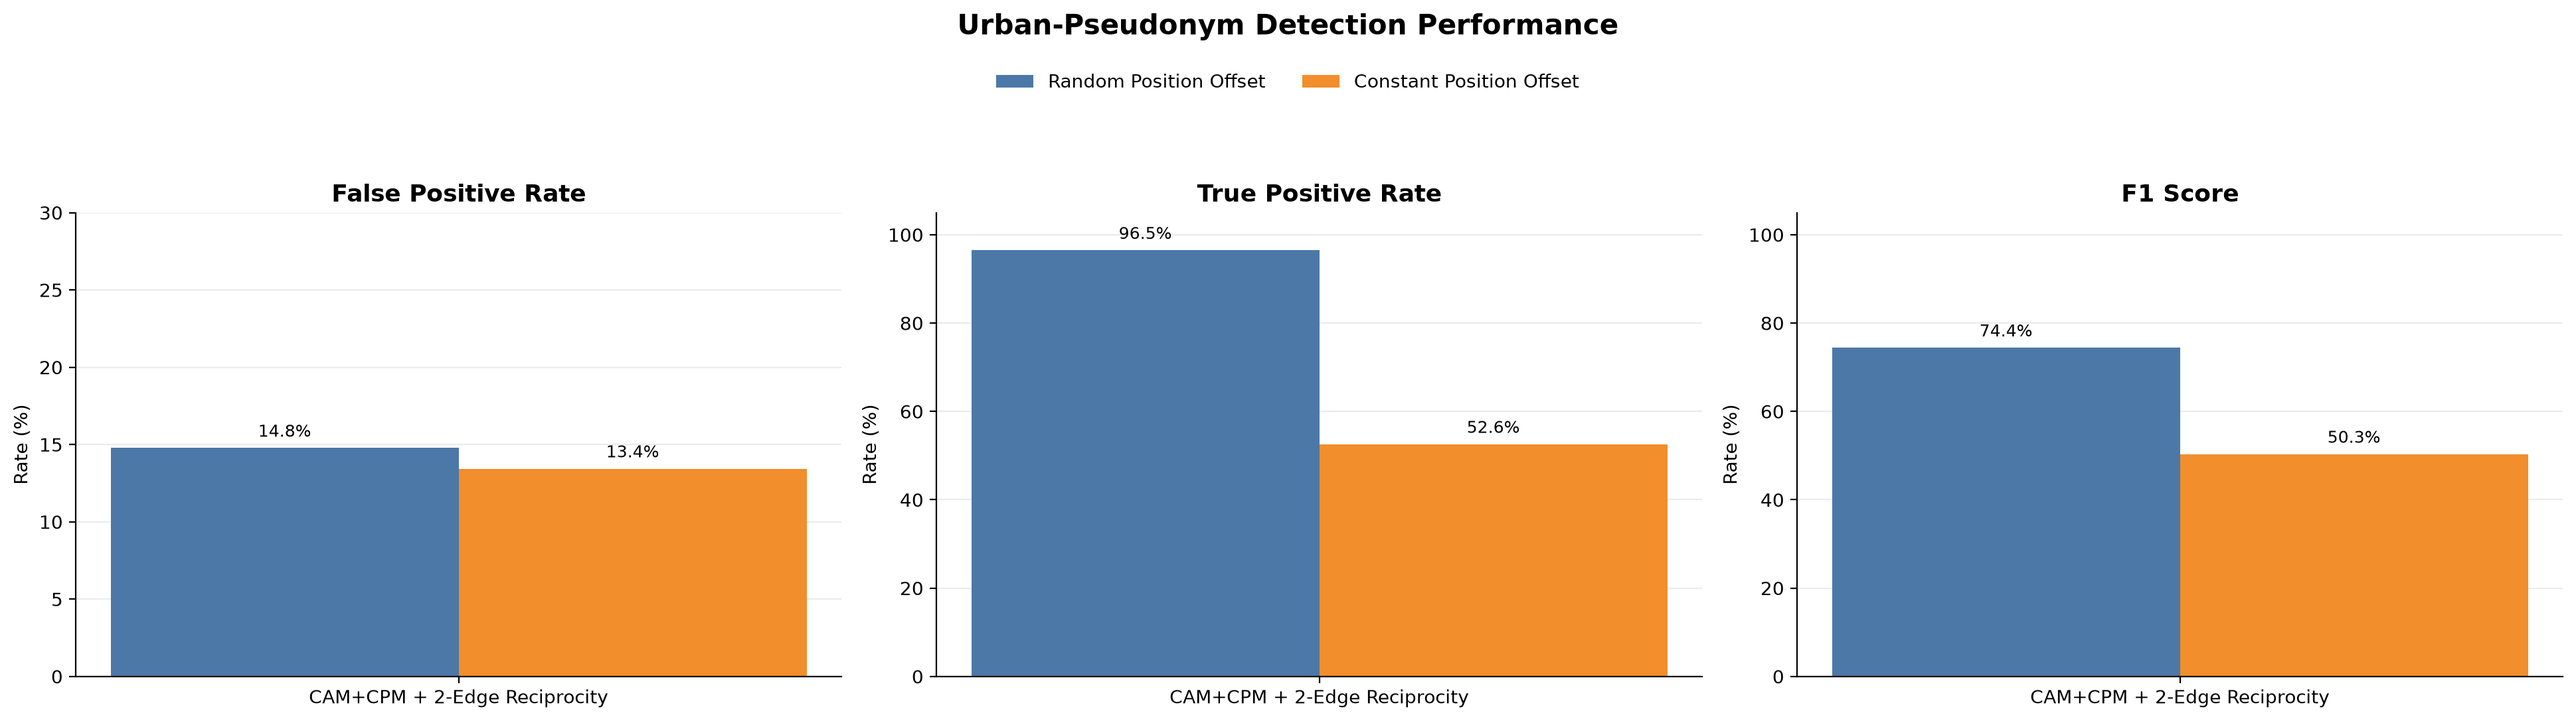
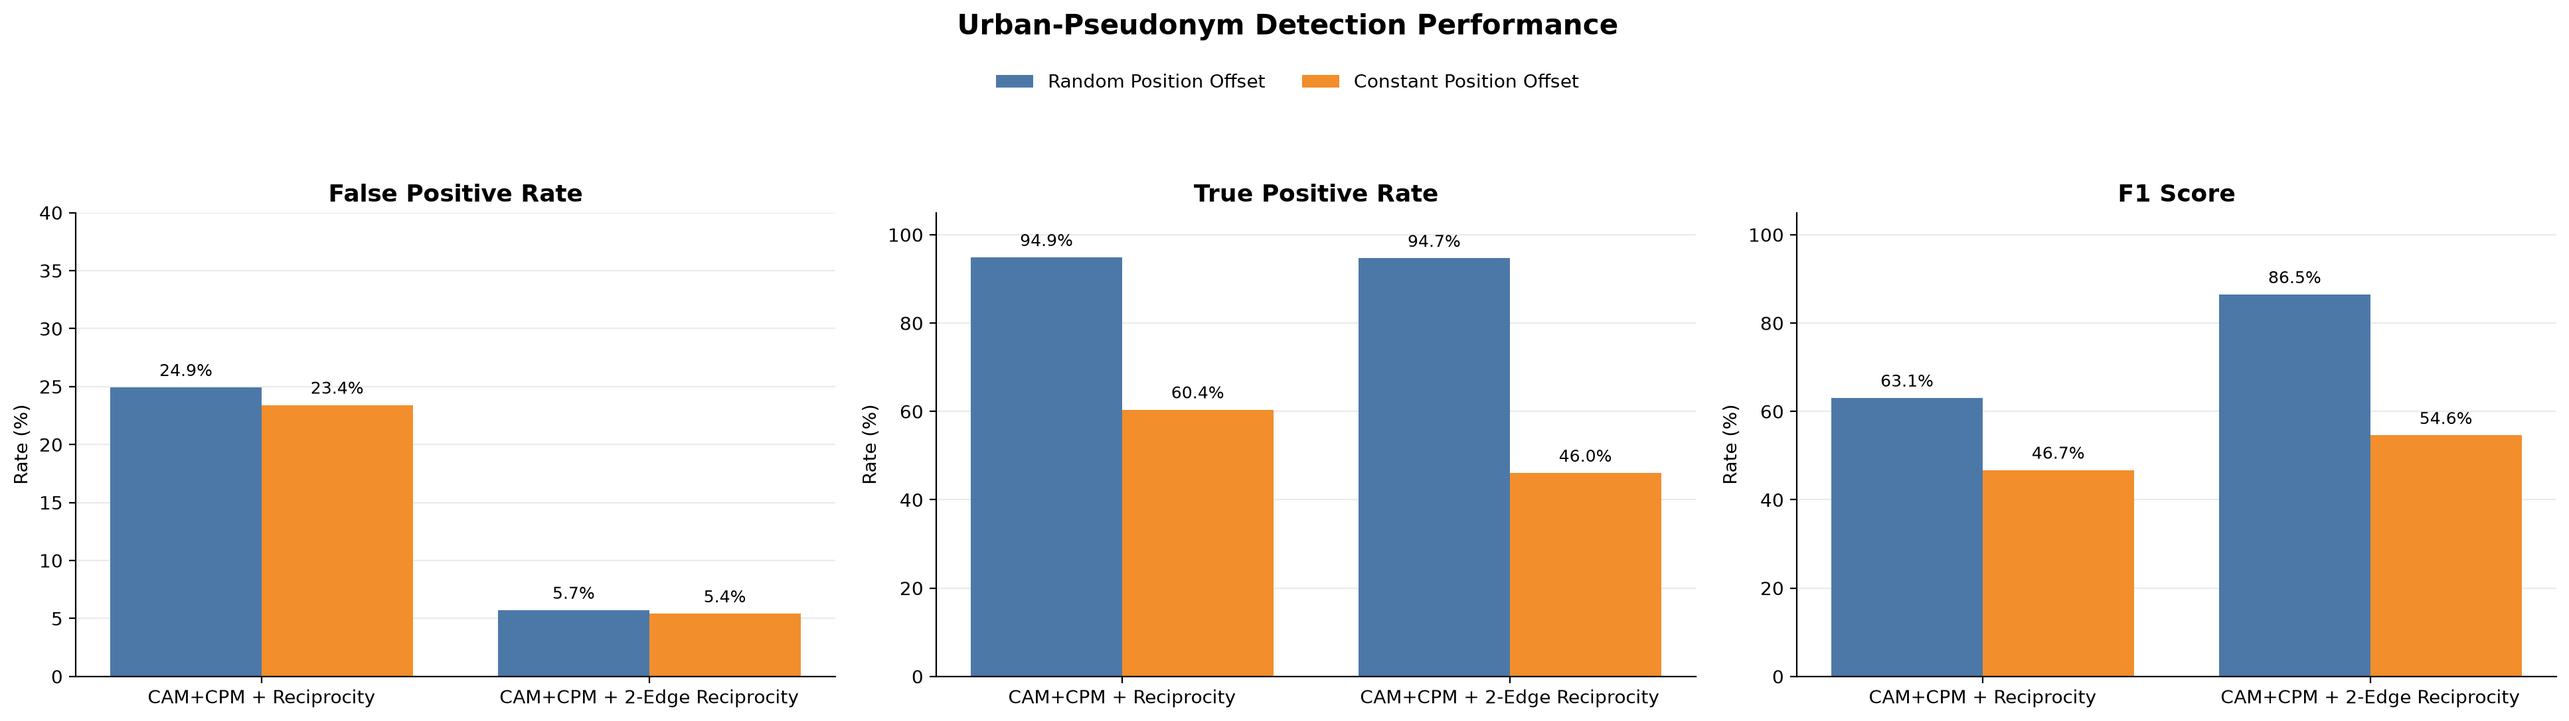
End of Week 7

diff --git a/Generator/MBD_systems/visualization/results-test.py b/Generator/MBD_systems/visualization/results-test.py
@@ -1,9 +1,6 @@
 import argparse
-import json
 import math
 from pathlib import Path
-import subprocess
-import sys
 
 import matplotlib
 
@@ -12,8 +9,49 @@ import matplotlib.pyplot as plt
 import numpy as np
 
 
-REPO_ROOT = Path(__file__).resolve().parents[3]
-MAIN_SCRIPT = REPO_ROOT / "Generator" / "MBD_systems" / "main.py"
+# Fixed detector metrics, stored as rates in the range [0, 1].
+RESULTS = {
+    (2, "randomPositionOffset"): {
+        "false_positive_rate": 0.1418,
+        "true_positive_rate": 0.9598,
+        "f1_score": 0.7680,
+    },
+    (2, "constantPositionOffset"): {
+        "false_positive_rate": 0.1264,
+        "true_positive_rate": 0.1749,
+        "f1_score": 0.2012,
+    },
+    (3, "randomPositionOffset"): {
+        "false_positive_rate": 0.0719,
+        "true_positive_rate": 0.9682,
+        "f1_score": 0.8629,
+    },
+    (3, "constantPositionOffset"): {
+        "false_positive_rate": 0.0570,
+        "true_positive_rate": 0.1965,
+        "f1_score": 0.2707,
+    },
+    (4, "randomPositionOffset"): {
+        "false_positive_rate": 0.3011,
+        "true_positive_rate": 0.9694,
+        "f1_score": 0.6207,
+    },
+    (4, "constantPositionOffset"): {
+        "false_positive_rate": 0.2602,
+        "true_positive_rate": 0.6562,
+        "f1_score": 0.4654,
+    },
+    (5, "randomPositionOffset"): {
+        "false_positive_rate": 0.1206,
+        "true_positive_rate": 0.9686,
+        "f1_score": 0.7969,
+    },
+    (5, "constantPositionOffset"): {
+        "false_positive_rate": 0.0939,
+        "true_positive_rate": 0.5630,
+        "f1_score": 0.5678,
+    },
+}
 
 DETECTORS = {
     2: ("CAM Only", "kalman_cam_only"),
@@ -29,18 +67,18 @@ ATTACK_LABELS = {
 
 
 def parse_args():
-    parser = argparse.ArgumentParser(description="Run and plot Kalman detector comparisons.")
+    parser = argparse.ArgumentParser(description="Plot fixed Kalman detector comparisons.")
     parser.add_argument(
         "filename",
         help="Output filename suffix; the setting is added as a prefix",
     )
-    parser.add_argument("--setting", default="urban", help="Simulation setting, such as urban or highway")
+    parser.add_argument("--setting", default="urban", help="Label used in the title and output filename")
     parser.add_argument("--types", nargs="+", type=int, default=[2, 3, 4, 5], help="Detector types (2, 3, 4, 5)")
     parser.add_argument(
         "--attacks",
         nargs="+",
         default=["randomPositionOffset", "constantPositionOffset"],
-        help="Attack folder suffixes",
+        help="Attack names",
     )
     parser.add_argument(
         "--include-f1",
@@ -59,40 +97,14 @@ def validate_args(args):
     if len(set(args.attacks)) != len(args.attacks):
         raise ValueError("Attacks must not contain duplicates")
 
-
-def run_detector(input_folder, detector_type):
-    print(f"Running type {detector_type} on {input_folder.name}...", flush=True)
-    subprocess.run(
-        [
-            sys.executable,
-            str(MAIN_SCRIPT),
-            "--input_folder",
-            str(input_folder),
-            "--type",
-            str(detector_type),
-            "--train",
-            "0",
-        ],
-        cwd=REPO_ROOT,
-        check=True,
-    )
-
-
-def load_metrics(setting_root, input_folder, detector_type):
-    _, result_folder = DETECTORS[detector_type]
-    metrics_path = setting_root / "results" / input_folder.name / result_folder / "predicted.json"
-    if not metrics_path.is_file():
-        raise FileNotFoundError(f"Detector did not create {metrics_path}")
-
-    with metrics_path.open("r", encoding="utf-8") as file:
-        metrics = json.load(file)
-
-    tp, tn = metrics["tp"], metrics["tn"]
-    fp, fn = metrics["fp"], metrics["fn"]
-    metrics["true_positive_rate"] = tp / (tp + fn) if tp + fn else 0.0
-    metrics["false_positive_rate"] = fp / (fp + tn) if fp + tn else 0.0
-    metrics["f1_score"] = 2 * tp / (2 * tp + fp + fn) if 2 * tp + fp + fn else 0.0
-    return metrics
+    missing = [
+        (detector_type, attack)
+        for detector_type in args.types
+        for attack in args.attacks
+        if (detector_type, attack) not in RESULTS
+    ]
+    if missing:
+        raise ValueError(f"No fixed metrics are defined for: {missing}")
 
 
 def attack_label(attack):
@@ -180,14 +192,14 @@ def plot_results(args, results, output_path):
 def print_metrics(args, results):
     print("\nDetector metrics")
     f1_header = f" {'F1':>8}" if args.include_f1 else ""
-    print(f"{'Detector':<24} {'Attack':<26} {'FPR':>8} {'TPR':>8}{f1_header}")
-    print("-" * (79 if args.include_f1 else 70))
+    print(f"{'Detector':<31} {'Attack':<26} {'FPR':>8} {'TPR':>8}{f1_header}")
+    print("-" * (86 if args.include_f1 else 77))
     for detector_type in args.types:
         for attack in args.attacks:
             metrics = results[(detector_type, attack)]
             f1_value = f" {metrics['f1_score'] * 100:>7.2f}%" if args.include_f1 else ""
             print(
-                f"{DETECTORS[detector_type][0]:<24} "
+                f"{DETECTORS[detector_type][0]:<31} "
                 f"{attack_label(attack):<26} "
                 f"{metrics['false_positive_rate'] * 100:>7.2f}% "
                 f"{metrics['true_positive_rate'] * 100:>7.2f}%"
@@ -199,33 +211,17 @@ def main():
     args = parse_args()
     try:
         validate_args(args)
-        setting_root = REPO_ROOT / "Simulation-Test" / f"{args.setting}-test"
-        if not setting_root.is_dir():
-            raise FileNotFoundError(f"Setting folder does not exist: {setting_root}")
-
-        results = {}
-        for attack in args.attacks:
-            input_folder = setting_root / f"json_{attack}"
-            if not input_folder.is_dir():
-                raise FileNotFoundError(f"Attack input folder does not exist: {input_folder}")
-            for detector_type in args.types:
-                run_detector(input_folder, detector_type)
-                results[(detector_type, attack)] = load_metrics(
-                    setting_root, input_folder, detector_type
-                )
-
         output_path = (
             Path(__file__).resolve().parent
             / "created"
             / f"{args.setting}_{args.filename}"
         )
         output_path.parent.mkdir(parents=True, exist_ok=True)
-        plot_results(args, results, output_path)
-        print_metrics(args, results)
+        plot_results(args, RESULTS, output_path)
+        print_metrics(args, RESULTS)
         print(f"\nSaved figure in {output_path}")
-    except (ValueError, FileNotFoundError, subprocess.CalledProcessError) as error:
-        print(f"Error: {error}", file=sys.stderr)
-        raise SystemExit(1)
+    except ValueError as error:
+        raise SystemExit(f"Error: {error}") from error
 
 
 if __name__ == "__main__":

diff --git a/Generator/MBD_systems/kalman_filter.py b/Generator/MBD_systems/kalman_filter.py
@@ -77,7 +77,7 @@ class KalmanTrack:
         pos = parse_position(cam["sender"]["pos"])
         velocity = velocity_from_cam(cam)
         pos_error = float(np.linalg.norm(predicted[0:2] - pos[0:2]))
-        speed_error = float(abs(np.linalg.norm(predicted[2:4]) - np.linalg.norm(velocity)))
+        speed_error = float(np.linalg.norm(predicted[2:4] - velocity))
         return pos_error, speed_error
 
     def update_from_cam(self, cam: dict, measurement_noise: np.ndarray):

diff --git a/Generator/MBD_systems/kalman_detector.py b/Generator/MBD_systems/kalman_detector.py
@@ -10,9 +10,9 @@ from kalman_filter import KalmanTrack, SENSOR_MEASUREMENT_COVARIANCE, parse_posi
 
 
 POSITION_THRESHOLD_M = 10
-SPEED_THRESHOLD_MPS = 5
+SPEED_THRESHOLD_MPS = 10
 CPM_OBJECT_POSITION_THRESHOLD_M = 10
-CPM_OBJECT_SPEED_THRESHOLD_MPS = 5
+CPM_OBJECT_SPEED_THRESHOLD_MPS = 10
 WIRELESS_RANGE_M = 300.0
 RANGE_MARGIN_M = 50.0
 EGO_LOOKBACK_NS = 2_000_000_000

diff --git a/Generator/MBD_systems/main.py b/Generator/MBD_systems/main.py
@@ -153,6 +153,7 @@ def main():
     count = 0
     max_workers = args.workers
 
+    # *** Added Section for Kalman procedure, each type of evalutation ***
     if int(args.type) == 2:
         metrics, debug_results = process_kalman_folder(input_folder)
         scenario_stats.append(metrics)
